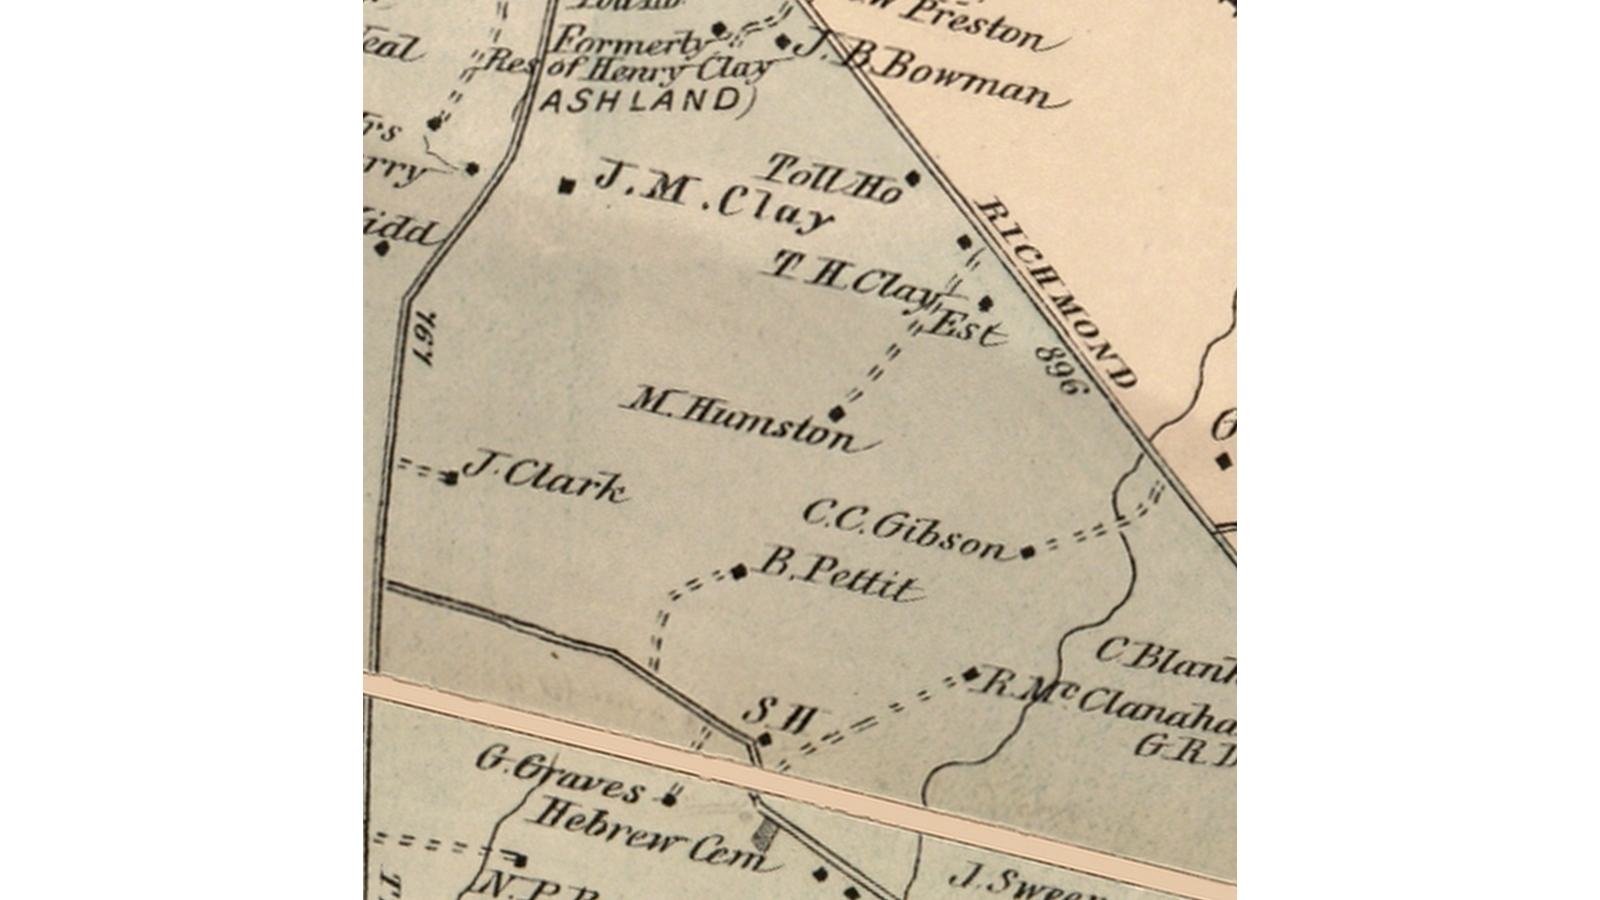
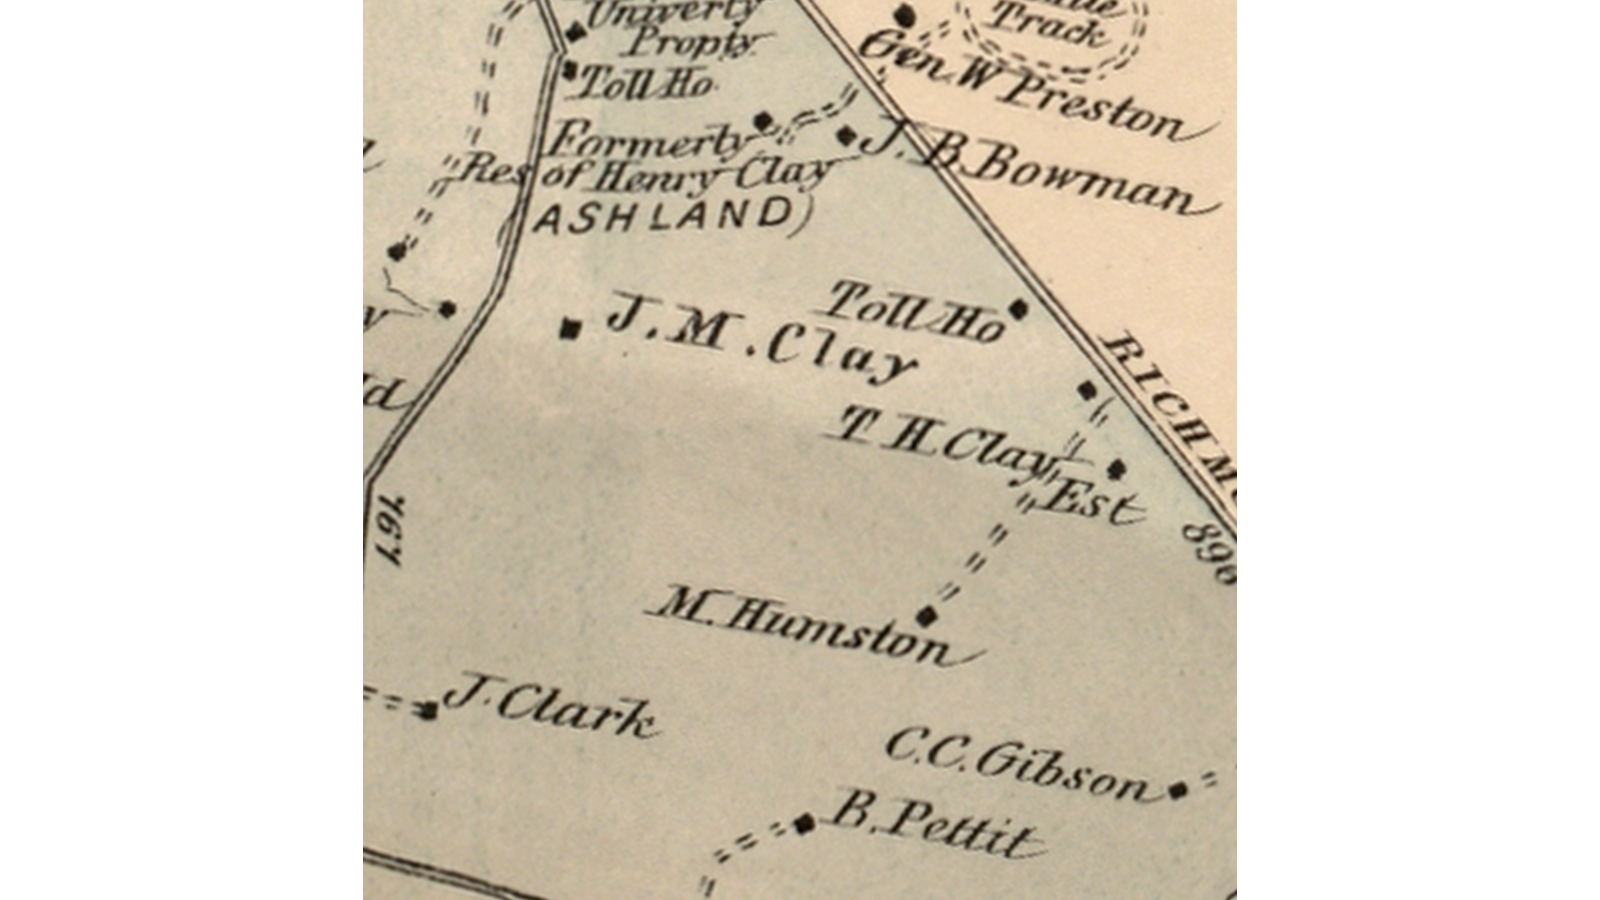
fix(1877): scale from the plate's 1-mile circle (2.76x); Richmond line + Tates Creek bends; Mansfield per Beers/NRHP

Changed region(s): [[0.2188, 0.0, 0.7812, 1.0], [0.75, 0.3422, 0.7812, 0.4044]]

diff --git a/src/data/analysisChapters.ts b/src/data/analysisChapters.ts
@@ -163,14 +163,14 @@ export const ANALYSIS_CHAPTERS: AnalysisChapter[] = [
       "Engraved and published by D.G. Beers & Co. (Philadelphia, 1877) under Library of Congress Control No. 2005627107. Digitized directly from the uncompressed 31.1 MB master negative TIFF in the Geography & Map Division. It documents post-Civil War land tenure, showing Henry Clay's Ashland (325 a.), John M. Clay's Ashland-on-Tates-Creek, Thomas Hart Clay's Mansfield (896 a.), turnpike toll gates, and the Kentucky University Agricultural & Mechanical College grounds.",
     archaeologicalInsights: [
       "The estate is explicitly labeled 'Formerly Res. of Henry Clay - ASHLAND (325 a.)', then serving as the A&M College campus of Kentucky University under Regent John B. Bowman.",
-      "Shows the authentic 19th-century private turnpike toll gate ('Toll Ho.') along Richmond Pike near modern Chinoe Road, controlling transit into Lexington.",
+      "Shows the 1877 private turnpike toll gate ('Toll Ho.') on Richmond Pike about a kilometre out from Ashland, by the later Shriners Hospital site, controlling transit into Lexington.",
       "Directly depicts John M. Clay's thoroughbred breeding estate ('J.M. Clay') with its carriage drive extending to Tates Creek Pike, one year before his horse Day Star won the 1878 Kentucky Derby.",
       "Documents the circular 1-mile municipal boundary of Lexington and adjacent antebellum estates of Gen. William Preston, Mentelle, and M. Humston."
     ],
     mlModelDetails: {
-      algorithm: "Road-Shape Similarity: Tates Creek Pike and Richmond Pike ink fitted to the modern Tates Creek Rd / Richmond Rd centrelines (chamfer, multi-start)",
-      metrics: "Plate ink sits 8 px (Tates Creek) and 7 px (Richmond) off the modern pavement centrelines; the Richmond Pike Toll Ho. then lands 23 px from the Chinoe junction - house symbols are checks, not inputs (2.1x upscale of a county atlas)",
-      controlPoints: "Tates Creek Pike bends and Richmond Pike heading; checks: Ashland residence, Toll Ho., T.H. Clay Est.",
+      algorithm: "Similarity with scale taken from the plate's printed 1-mile corporate-limit circle (194 px radius = 2.76x); rotation and position from Richmond Pike line-fit and the two Tates Creek Pike bends",
+      metrics: "Richmond Pike ink 16 px and Tates Creek Pike ink ~30 px off the modern centrelines - the plate surveys the upper Tates Creek reach ~240 m too close to Richmond; T.H. Clay Est. (Mansfield) lands 2.43 mi from the courthouse, matching the NRHP nomination",
+      controlPoints: "1-mile circle (scale), Richmond Pike line, Tates Creek Pike elbow and upper bend; checks: Ashland residence, T.H. Clay Est., Toll Ho.",
       confidence: 85
     },
     hotspots: [
@@ -494,7 +494,7 @@ export const ANALYSIS_CHAPTERS: AnalysisChapter[] = [
     ],
     mlModelDetails: {
       algorithm: "90 deg CCW True-North Rotation + Similarity pinned on the Chinoe and Fontaine junction ticks, with the plat's Richmond Rd line ICP-fitted to the modern centreline",
-      metrics: "Chinoe tick 4 px, Fontaine junction 9 px, Richmond Rd double line 4 px off centreline; Ashland house 14 px and Mansfield 27 px as free checks (RMSE 15.9 px)",
+      metrics: "Chinoe tick 4 px, Fontaine junction 9 px, Richmond Rd double line 4 px off centreline; Ashland house 14 px as a free check; Bean's Mansfield 'C' sits ~500 m from where the 1877 plate and the NRHP distance put the house",
       controlPoints: "Chinoe junction tick, Fontaine junction, Richmond Rd double line; checks: A Ashland, C Mansfield",
       confidence: 84
     },

diff --git a/scripts/ml_align_v2.py b/scripts/ml_align_v2.py
@@ -56,7 +56,7 @@ CAN = {
     "hchs":           (1055.0, 510.0), # [street] Henry Clay High main building
     "shriners":       (975.0, 290.0),  # [street] former Shriners Hospital building
     "richmond_se":    (1050.0, 327.0), # [street] point on Richmond Rd pavement centreline x = 792 + 0.79*y (was on the frontage road before)
-    "mansfield_1877": (986.0, 302.0),  # [road-fit] T.H. Clay Est. house symbol on Beers Plate 30 under the two-road fit (Tab 2)
+    "mansfield_1877": (1117.0, 467.0), # [road-fit] T.H. Clay Est. house symbol on Beers Plate 30 under the circle-scale fit; 2.43 mi from the courthouse (NRHP: ~2.5 mi)
     "fontaine_richmond": (948.0, 187.0), # [street] Fontaine Rd joins Richmond Rd, 35 px SE of Chinoe (5x mask zoom)
 }
 
@@ -236,18 +236,19 @@ if not os.path.exists(src_path): src_path = os.path.join(MAPS, "1877_beers_fayet
 img = cv2.imread(src_path)
 if img.shape[1] != 2601:   # master TIFF at a different resolution than the JPG the picks were made on
     img = cv2.resize(img, (2601, 3984), interpolation=cv2.INTER_AREA)
-# Road centrelines traced on the plate (scan px) and on the 2024 basemap (canvas px).
-# The similarity below minimises the mean distance from the plate's Tates Creek Pike and
-# Richmond Pike ink to the modern Tates Creek Rd / Richmond Rd centrelines (chamfer fit,
-# multi-start over rotation 6-26 deg and scale 2.2-3.0; converged at 13.7 deg / 2.131x,
-# mean off-road distance 7.4 px Tates Creek, 7.2 px Richmond). Re-derive if you re-trace
-# either road.
-BEERS_TATES_PLATE = [(405,1565),(401,1600),(399,1640),(397,1680),(395,1720),(392,1760),(386,1790),(380,1810),(381,1850),(383,1900),(388,1950),(394,2000)]
+# SCALE is taken from the plate itself: Lexington's 1-mile corporate-limit circle measures 194.1 px radius
+# (algebraic circle fit, 0.7 px residual) and the canvas is 536 px/mile (3.01 m/px), so 1 px on the plate is
+# 2.762 canvas px. Rotation and position come from Richmond Pike ink ICP-projected onto the modern centreline
+# and the two Tates Creek Pike bends (the "767" elbow and the bend above it) pinned to the modern bends.
+# Chamfer-only fits (2.13-2.20x) were wrong: two straight roads let the plate slide and shrink. The plate's
+# upper Tates Creek reach is surveyed ~80 px (240 m) too close to Richmond, so its north end sits ~30 px east
+# of the modern road; that is the atlas, not the fit. Re-derive if you re-trace either road.
+BEERS_TATES_PLATE = [(397,1565),(398,1602),(399,1644),(397,1686),(392,1732),(380,1773),(363,1807),(365,1832),(372,1873),(376,1915),(384,1957),(392,1994)]
 BEERS_RICHMOND_PLATE = [(410,1560),(460,1599),(510,1637),(560,1676),(610,1715),(660,1753),(710,1792),(760,1831),(810,1870)]
 SAT_TATES = [(548,10),(538,60),(528,110),(520,150),(505,195),(490,240),(472,270),(455,300),(435,335),(415,375),(398,415),(388,450),(382,500),(379,550),(380,600),(383,650),(386,700),(389,750),(392,800),(395,850),(398,900)]
 SAT_RICHMOND = [(int(792 + 0.79 * y), y) for y in range(0, 901, 50)]   # pavement centreline from the 5x mask zoom
-M_beers = np.array([[2.070252, -0.5056001, 570.4386],
-                    [0.5056001, 2.070252, -3618.997]])
+M_beers = np.array([[2.696788, -0.5966375, 467.7090],
+                    [0.5966375, 2.696788, -4601.306]])
 # road residuals (plate ink vs modern centrelines) for the telemetry
 lines = np.zeros((CANVAS_H, CANVAS_W), np.uint8)
 cv2.polylines(lines, [np.int32(SAT_TATES)], False, 255, 3); cv2.polylines(lines, [np.int32(SAT_RICHMOND)], False, 255, 3)
@@ -259,15 +260,17 @@ def road_off(trace):
     ok = (Q[:, 0] >= SAT_X0) & (Q[:, 0] < SAT_X1) & (Q[:, 1] >= 0) & (Q[:, 1] < CANVAS_H)
     return float(np.minimum(dtr[Q[ok, 1].astype(int), Q[ok, 0].astype(int)], 40).mean())
 off_t, off_r = road_off(BEERS_TATES_PLATE), road_off(BEERS_RICHMOND_PLATE)
-CP_BEERS = [("Ashland res.", (473, 1645), CAN["mansion"]),
-            ("Richmond Toll Ho.", (578, 1693), CAN["richmond_chinoe"]),
-            ("T.H.Clay/Mansfield", (626, 1741), CAN["mansfield_1877"])]
+CP_BEERS = [("Tates lower bend (767)", (363, 1807), (388.0, 450.0)),
+            ("Tates upper bend",       (397, 1690), (490.0, 240.0)),
+            ("Ashland res. (check)",   (473, 1645), CAN["mansion"]),
+            ("T.H.Clay/Mansfield",     (626, 1741), CAN["mansfield_1877"])]
 lab = [c[0] for c in CP_BEERS]; S = np.float32([c[1] for c in CP_BEERS]); D = np.float32([c[2] for c in CP_BEERS])
 s, th = sim_params(M_beers); print(f"   plate->canvas: scale {s:.3f}, rotation {th:+.2f} deg | road ink off centreline: Tates Creek {off_t:.1f} px, Richmond {off_r:.1f} px")
-record("1877_beers", "Similarity fitted on road shapes: Tates Creek Pike + Richmond Pike ink vs modern centrelines (chamfer, multi-start)", "Zero", S, D, lab, M_beers,
+record("1877_beers", "Similarity: scale from the plate's printed 1-mile circle (194.1 px), rotation/position from Richmond Pike line-ICP and the two Tates Creek Pike bends", "Zero", S, D, lab, M_beers,
        "1877_beers_ashland_aligned.png",
-       f"Road-shape fit; house symbols are checks only. Mean plate-ink distance to modern centreline: Tates Creek {off_t:.1f} px, Richmond {off_r:.1f} px. "
-       "Under this fit the Richmond Pike 'Toll Ho.' lands 23 px from the Chinoe/Richmond junction, settling the toll-house question. County-atlas source upscaled 2.2x; linework is soft.")
+       f"Scale from the printed 1-mile circle; roads fitted, house symbols are checks. Plate-ink distance to modern centreline: Richmond {off_r:.1f} px, Tates Creek {off_t:.1f} px "
+       "(the plate's upper Tates Creek reach is surveyed too close to Richmond). The 1877 Richmond Pike Toll Ho. lands by the former Shriners campus, "
+       "~1 km from Ashland, not at Chinoe. County-atlas source upscaled 2.8x; linework is soft.")
 TELEM["models"]["1877_beers"]["road_residual_px"] = {"tates_creek_pike": round(off_t, 1), "richmond_pike": round(off_r, 1)}
 layer = warp_rgba(img, M_beers)
 cv2.imwrite(os.path.join(OUT, "1877_beers_ashland_aligned.png"), layer)
